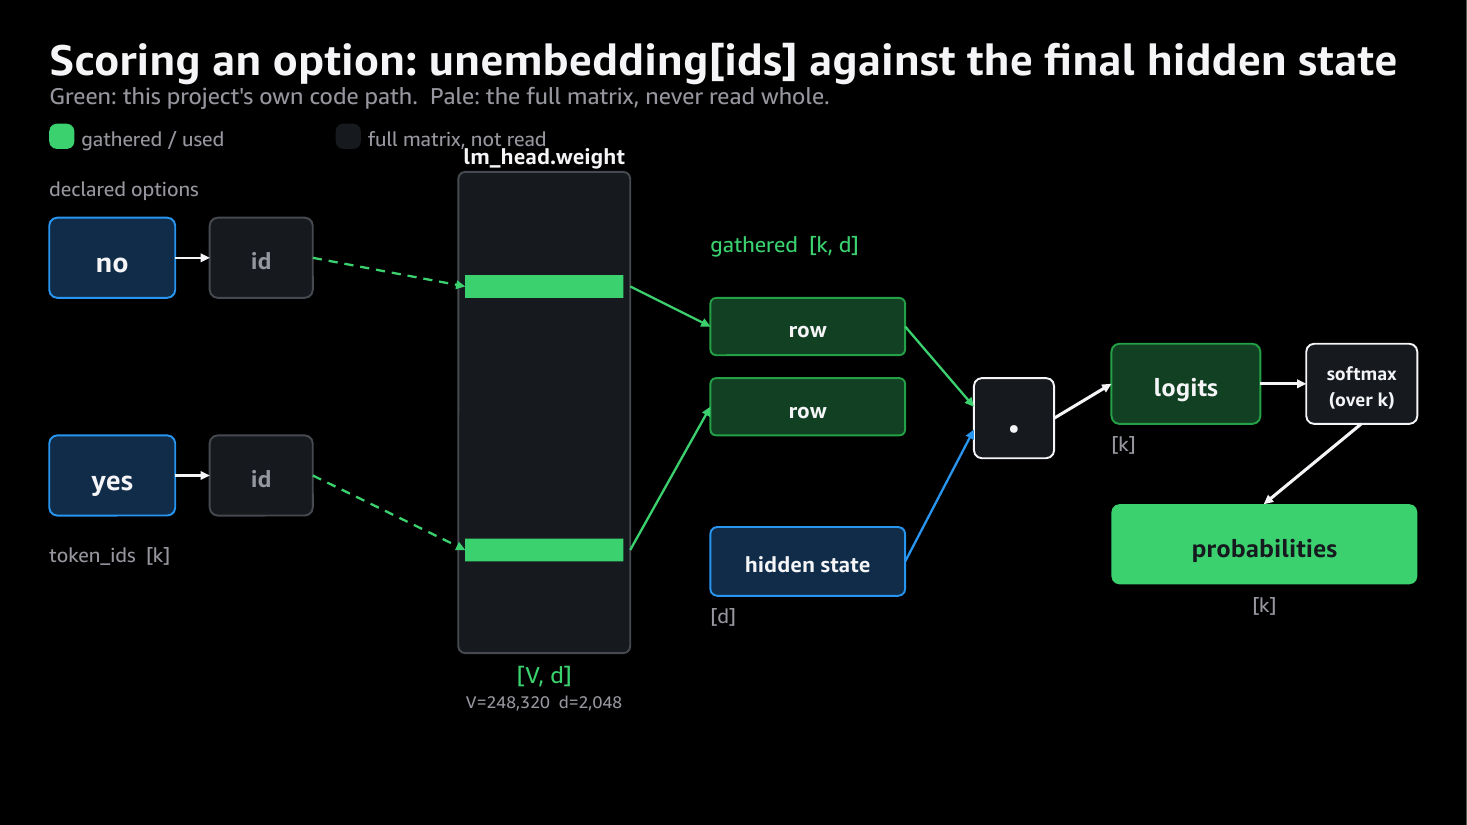
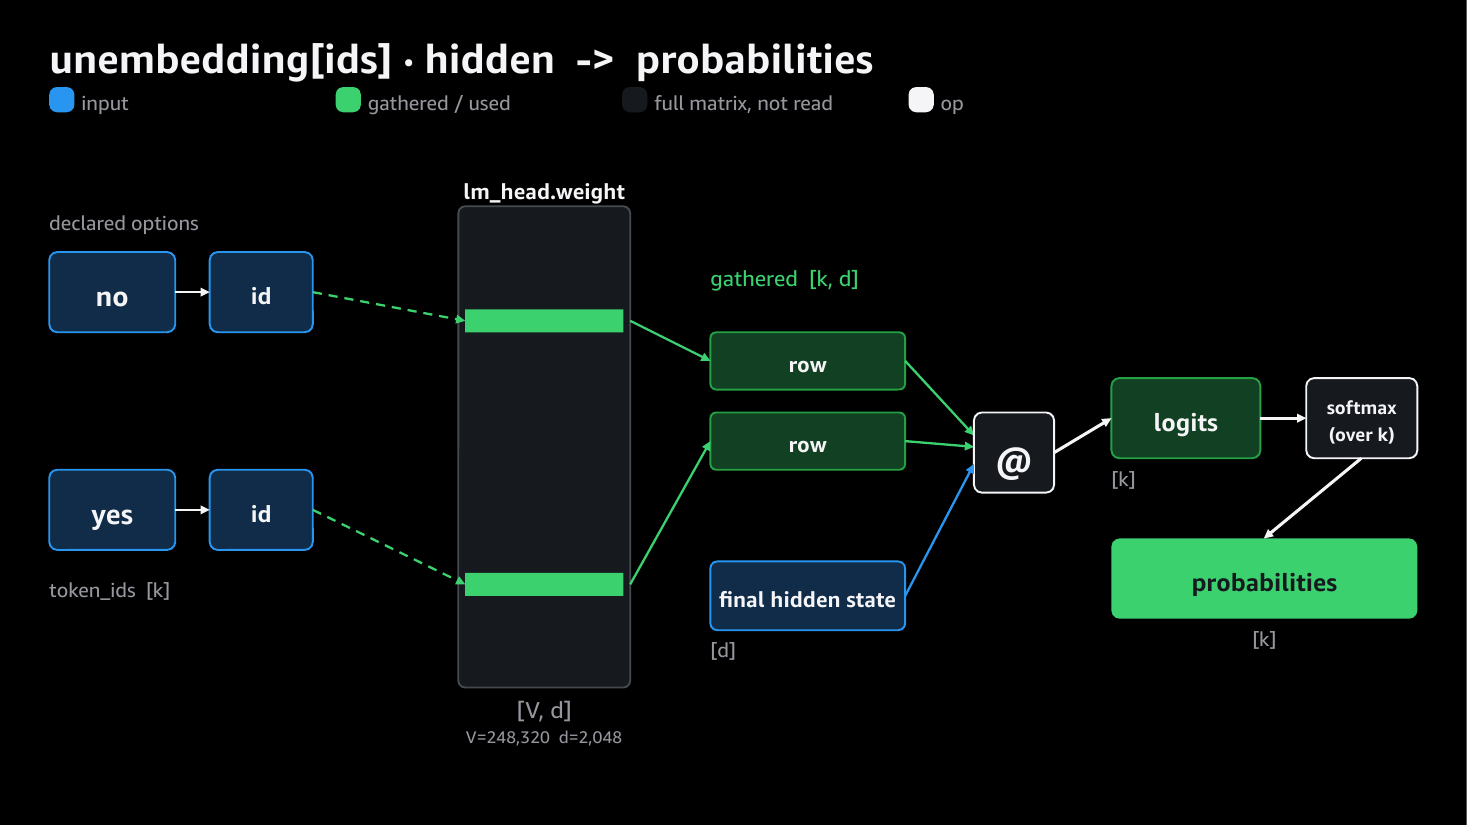
figures for zenn article 2501df775848aa: fix fig4-readout (missing arrow, overlap, legend, no prose)

diff --git a/zenn/articles/2501df775848aa/source/gen_prismyra_figs.py b/zenn/articles/2501df775848aa/source/gen_prismyra_figs.py
@@ -169,25 +169,24 @@ box(s.s, 43, 440, 1194, 70, CHIP, stroke=EDGE, radius=0.15,
 
 # ------------------------------------------------------------------ 4. readout (no head)
 s = d.slide()
-title(s.s, "Scoring an option: unembedding[ids] against the final hidden state",
-      "Green: this project's own code path.  Pale: the full matrix, never read whole.")
-legend(s.s, 108, [(GRN_HI, "gathered / used"), (CHIP, "full matrix, not read")])
+label(s.s, 43, 26, 1190, 40, "unembedding[ids] · hidden  ->  probabilities", size=26, bold=True, align="left")
+legend(s.s, 76, [(LINK, "input"), (GRN_HI, "gathered / used"), (CHIP, "full matrix, not read"), (WHITE, "op")])
 
 # -- declared options, left column
-opt_y = [190, 380]
+opt_y = [220, 410]
 opt_names = ["no", "yes"]
 for name, y in zip(opt_names, opt_y):
     box(s.s, 43, y, 110, 70, LINK_DK, stroke=LINK, body=name, size=18)
-    box(s.s, 183, y, 90, 70, CHIP, stroke=EDGE, body="id", size=15, color=MUTED)
+    box(s.s, 183, y, 90, 70, LINK_DK, stroke=LINK, body="id", size=15, color=WHITE)
     sh.arrow(s.s, t, 153, y + 35, 183, y + 35, color=WHITE, width=1.5)
-label(s.s, 43, 150, 280, 24, "declared options", size=13, color=MUTED, align="left")
-label(s.s, 43, 470, 280, 24, "token_ids  [k]", size=13, color=MUTED, align="left")
+label(s.s, 43, 180, 280, 24, "declared options", size=13, color=MUTED, align="left")
+label(s.s, 43, 500, 280, 24, "token_ids  [k]", size=13, color=MUTED, align="left")
 
 # -- the big, pale vocabulary matrix
-mat_x, mat_y, mat_w, mat_h = 400, 150, 150, 420
+mat_x, mat_y, mat_w, mat_h = 400, 180, 150, 420
 box(s.s, mat_x, mat_y, mat_w, mat_h, CHIP, stroke=EDGE, radius=0.04)
 label(s.s, mat_x, mat_y - 28, mat_w, 24, "lm_head.weight", size=14, bold=True, align="center")
-label(s.s, mat_x, mat_y + mat_h + 4, mat_w, 24, "[V, d]", size=15, color=GRN_HI, align="center")
+label(s.s, mat_x, mat_y + mat_h + 4, mat_w, 24, "[V, d]", size=15, color=MUTED, align="center")
 label(s.s, mat_x, mat_y + mat_h + 30, mat_w, 22, "V=248,320  d=2,048", size=11, color=MUTED, align="center")
 
 # two highlighted rows inside the pale matrix, at the two option rows' height
@@ -197,38 +196,38 @@ for y, oy in zip(row_ys, opt_y):
     sh.arrow(s.s, t, 273, oy + 35, mat_x + 6, y + 10, color=GRN_HI, width=1.5, dashed=True)
 
 # -- gathered rows, pulled out to their own small stack
-gx, gy0 = 620, 260
+gx, gy0 = 620, 290
+dot_x, dot_y = 850, 360
 for i, y in enumerate(row_ys):
     gy = gy0 + i * 70
     box(s.s, gx, gy, 170, 50, GRN_DK, stroke=GRN, body="row", size=14)
     sh.arrow(s.s, t, mat_x + mat_w, y + 10, gx, gy + 25, color=GRN_HI, width=1.5)
-label(s.s, gx, 198, 220, 24, "gathered  [k, d]", size=14, color=GRN_HI, align="left")
+    sh.arrow(s.s, t, gx + 170, gy + 25, dot_x, dot_y + 25 + (i - 0.5) * 10, color=GRN_HI, width=1.5)
+label(s.s, gx, 228, 220, 24, "gathered  [k, d]", size=14, color=GRN_HI, align="left")
 
 # -- final hidden state vector
-hx, hy = 620, 460
-box(s.s, hx, hy, 170, 60, LINK_DK, stroke=LINK, body="hidden state", size=14)
+hx, hy = 620, 490
+box(s.s, hx, hy, 170, 60, LINK_DK, stroke=LINK, body="final hidden state", size=14)
 label(s.s, hx, hy + 64, 220, 22, "[d]", size=13, color=MUTED, align="left")
 
 # -- dot product -> logits
-dot_x, dot_y = 850, 330
-box(s.s, dot_x, dot_y, 70, 70, CHIP, stroke=WHITE, body="·", size=28)
-sh.arrow(s.s, t, gx + 170, gy0 + 25, dot_x, dot_y + 25, color=GRN_HI, width=1.5)
+box(s.s, dot_x, dot_y, 70, 70, CHIP, stroke=WHITE, body="@", size=24, color=WHITE)
 sh.arrow(s.s, t, hx + 170, hy + 30, dot_x, dot_y + 45, color=LINK, width=1.5)
 
 logit_x = 970
-box(s.s, logit_x, 300, 130, 70, GRN_DK, stroke=GRN, body="logits", size=16)
-label(s.s, logit_x, 374, 170, 22, "[k]", size=13, color=MUTED, align="left")
-sh.arrow(s.s, t, dot_x + 70, dot_y + 35, logit_x, 335, color=WHITE, width=2)
+box(s.s, logit_x, 330, 130, 70, GRN_DK, stroke=GRN, body="logits", size=16)
+label(s.s, logit_x, 404, 170, 22, "[k]", size=13, color=MUTED, align="left")
+sh.arrow(s.s, t, dot_x + 70, dot_y + 35, logit_x, 365, color=WHITE, width=2)
 
 # -- softmax over k -> probabilities
 sm_x = 1140
-box(s.s, sm_x, 300, 97, 70, CHIP, stroke=WHITE, body="softmax\n(over k)", size=12)
-sh.arrow(s.s, t, logit_x + 130, 335, sm_x, 335, color=WHITE, width=2)
+box(s.s, sm_x, 330, 97, 70, CHIP, stroke=WHITE, body="softmax\n(over k)", size=12, color=WHITE)
+sh.arrow(s.s, t, logit_x + 130, 365, sm_x, 365, color=WHITE, width=2)
 
-prob_x, prob_y = 970, 440
+prob_x, prob_y = 970, 470
 box(s.s, prob_x, prob_y, 267, 70, GRN_HI, body="probabilities", size=16, color=CHIP)
 label(s.s, prob_x, prob_y + 74, 267, 22, "[k]", size=13, color=MUTED, align="center")
-sh.arrow(s.s, t, sm_x + 48, 370, prob_x + 133, prob_y, color=WHITE, width=2)
+sh.arrow(s.s, t, sm_x + 48, 400, prob_x + 133, prob_y, color=WHITE, width=2)
 
 d.save(OUT)
 print("saved", OUT)
